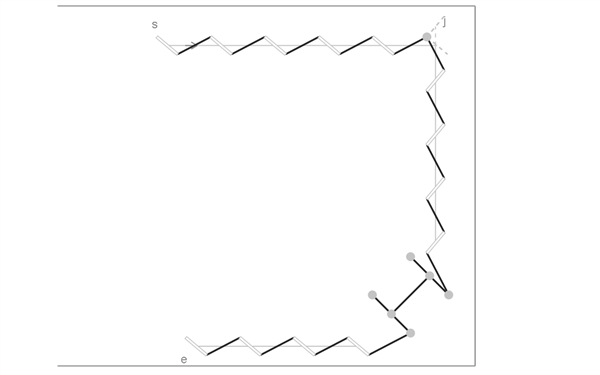
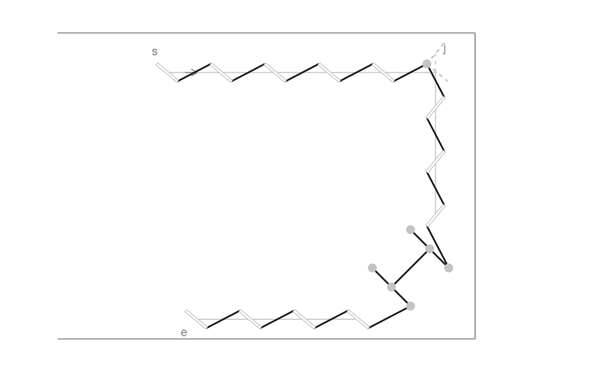
Shorten Sellier vertical run for diagram breathing room

diff --git a/examples/counter_examples/README.md b/examples/counter_examples/README.md
@@ -13,7 +13,7 @@ Jaeger-LeCoultre / Casa Fagliano source photograph: `jaeger_lecoultre_fagliano.p
 | Figure | Catalog ID | Construction |
 | --- | --- | --- |
 | `sellier-diagonal-corner` | `ILL-SELLIER-CORNER` | Top row already punched; vertical row flips from rear-style to front-style across its guide, then the shared diagonal slit and complete thread appear. The two adjacent thread segments have extra weight. |
-| `sellier-wallet-autostitch` | `ILL-SELLIER-WALLET` | Static detail: five top slits, four side slits and four bottom slits; shared corner hole and six H circles. |
+| `sellier-wallet-autostitch` | `ILL-SELLIER-WALLET` | Static detail: five top slits, three side slits and four bottom slits; shared corner hole and six H circles. |
 | `sellier-wallet-diagonal` | `ILL-SELLIER-WALLET-DIAGONAL` | Static comparison: the same ordinary slit counts and H, with one shared diagonal slit at the top corner. |
 | `loewe-hanger-reference` | `ILL-LOEWE-HANGER` | Static reference: left shared slit, right round hole, and a horizontal middle thread. |
 | `loewe-hanger-autostitch` | `ILL-LOEWE-HANGER` | Same three guides with two A6 corner holes and a fitted top span. |
